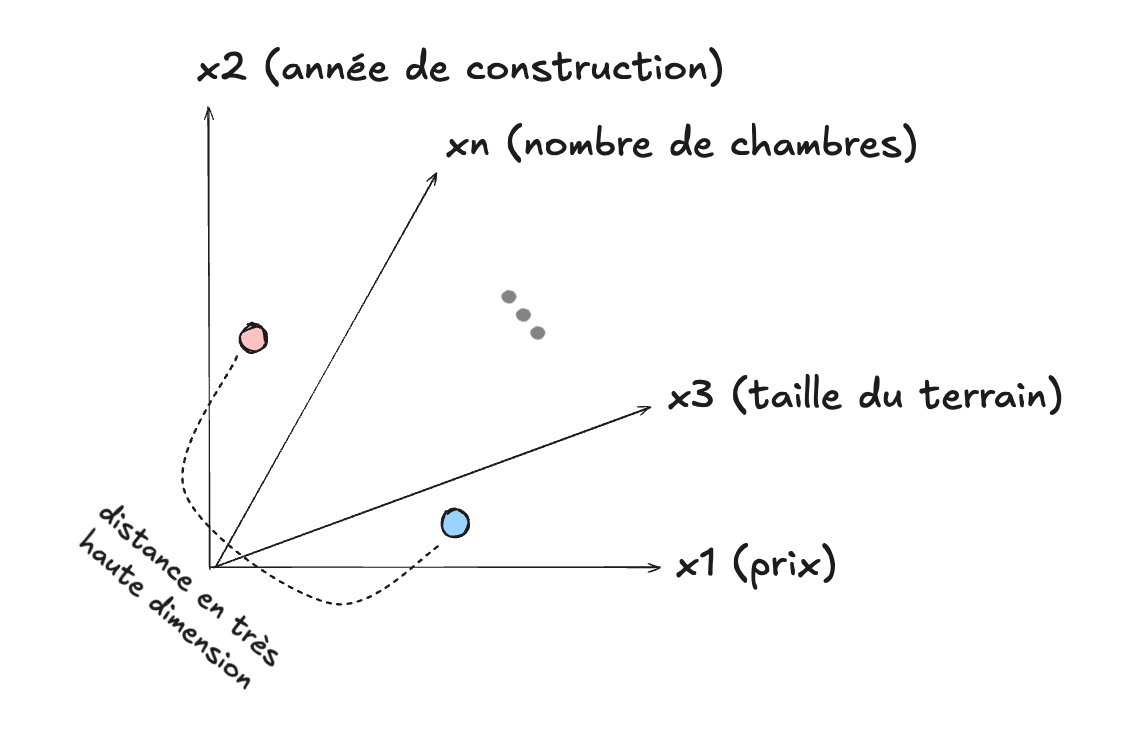
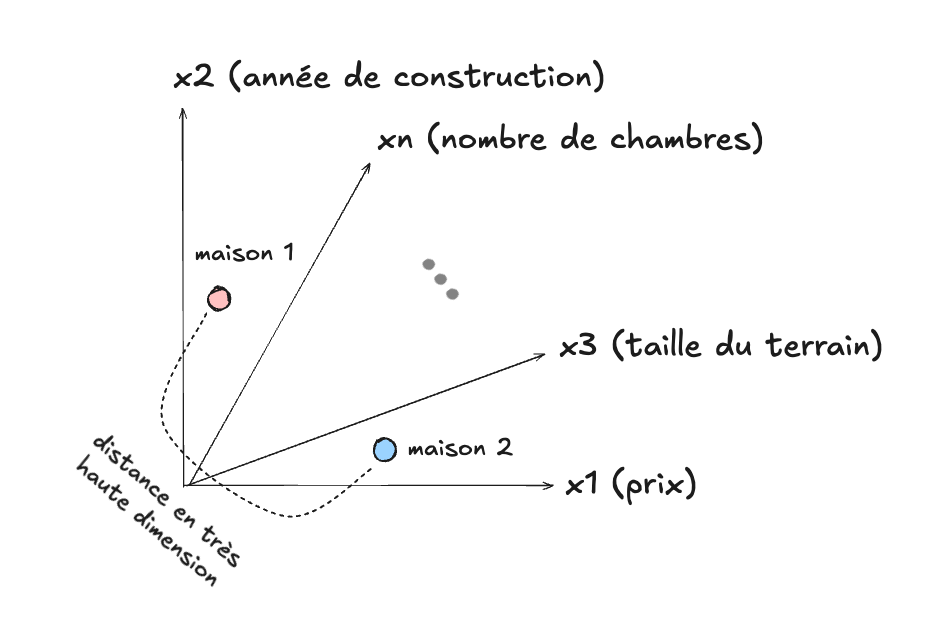
Edits similarity

diff --git a/content/docs/module2/similarité.md b/content/docs/module2/similarité.md
@@ -8,11 +8,11 @@ weight: 35
 Nous avons vu avec l'algorithme des [plus proches voisins]({{< relref
 "docs/module2/algo-le-plus-simple/" >}}) qu'une notion essentielle est de
 pouvoir mesurer la distance entre deux objets, afin de déterminer à quel point
-ils sont similaires. Mais que veut-on dire exactement par cela? Pour de simples
-points en deux dimensions, nous avons une conception intuitive raisonnable : il
-s'agit de la [distance
+ils sont similaires, qu'ils se ressemblent. Mais que veut-on dire exactement par
+cela? Pour de simples points en deux dimensions, nous avons une conception
+intuitive raisonnable : il s'agit de la [distance
 euclidienne](https://fr.wikipedia.org/wiki/Distance_euclidienne) entre les deux
-points.
+points, qui se calcule à l'aide d'une formule mathématique simple.
 
 ![](/images/module2/distance_2d.png)
 
@@ -24,16 +24,18 @@ chaque pixel d'une image correspond à une dimension :
 ![](/images/module2/distance_high_dim.png)
 
 Dans ce sens particulier, une image correspond donc à un vecteur en très haute
-dimension. En fait pour la plupart des données de type numérique (comme par
-exemple les rangées d'un tableau Excel) il est possible d'utiliser la même
-représentation, comme nous l'avons vu déjà :
+dimension, et exactement la même formule mathématique pour calculer la distance
+peut être utilisée. En fait pour la plupart des données de type numérique (comme
+par exemple les rangées d'un tableau Excel qui correspondent à des maisons en
+vente) il est possible d'utiliser la même représentation, comme nous l'avons vu
+déjà :
 
 ![](/images/module2/distance_high_dim2.png)
 
 ## Distance entre les mots ou les concepts
 
-Mais supposons maintenant que nous voulions mesurer la distance entre deux mots,
-ou deux concepts, que pourrions-nous faire?
+Mais supposons maintenant que nous voulions mesurer la similarité
+(distance) entre deux mots, ou deux concepts, que pourrions-nous faire?
 
 ![](/images/module2/distance_mots.png)
 
@@ -42,6 +44,10 @@ l'alphabet, où la présence d'une lettre dans un mot serait représentée par l
 valeur 1 dans la dimension correspondante, ou 0 sinon.
 
 ![](/images/module2/distance_mots2.png)
+
+Si on y pense un peu, on se rend compte tout de suite d'un problème : les mots
+"navire" et "bateau" seront très distants, alors que les mots "amande" et "amende"
+seront très proches.
 
 ## Distance de Levenshtein
 
@@ -57,7 +63,7 @@ pour mesurer la distance de Levenshtein entre les mots "navire" et "bateau" :
 Bien que cette notion particulière de distance soit très utile pour faire des
 applications qui permettent par exemple de corriger des erreurs d'orthographe
 (ou de faire en sorte que les requêtes Google soient plus flexibles), elle est
-moins utile pour l'apprentissage automatique. Comment ChatGPT peut faire en
+moins utile pour l'intelligence artificielle. Comment ChatGPT peut faire en
 sorte, par exemple, de considérer que les mots "navire" et "bateau" sont
 _sémantiquement_ proches (et possiblement interchangeables), si les notions de
 distance que nous avons considérées jusqu'à maintenant ne permettent pas d'en
@@ -65,43 +71,50 @@ offrir une mesure concrète?
 
 ## Modélisation du contexte des mots
 
-Une manière de résoudre et de modéliser le sens des mots (ce qu'ils veulent
-dire)  est de considérer les mots qui ont tendance à accompagner certains mots.
-On peut ainsi construire un espace vectoriel où chaque dimension correspond à un
-mot du vocabulaire. Un mot particulier, comme "chat", par exemple, aura des
-valeurs qui correspondront aux mots qu'on a tendance à retrouver dans son
-contexte, comme par exemple : ronronner, souris, miauler, etc. On peut
-considérer que le sens du mot chat est déterminé par le champ lexical des mots
-qui ont tendance à l'accompagner.
+Une manière de résoudre ce problème est de tenter de modéliser le sens des mots
+(ce qu'ils veulent dire) en considérant le contexte lexical qui a tendance à
+accompagner certains mots. Autrement dit, quels mots ont tendance à se retrouver
+dans le voisinage d'un mot particulier. On peut ainsi construire un espace
+vectoriel où chaque dimension correspond à un mot du vocabulaire. Un mot
+particulier, comme "chat", par exemple, aura des valeurs qui correspondront aux
+mots qu'on a tendance à retrouver dans son contexte, comme par exemple :
+"ronronner", "souris", "miauler", etc. On peut considérer que le sens du mot
+"chat" est déterminé par le champ lexical des mots qui ont tendance à
+l'accompagner.
 
 ![](/images/module2/distance_mots3.png)
 
-Cette approche fonctionne et est utilisée en pratique, mais elle présente des
-problèmes pour les algorithmes d'apprentissage automatique. Premièrement
-l'espace comporte un très grand nombre de dimensions (si on considère un
-vocabulaire de 100,000 mots, par exemple), dont la plupart seront de valeur zéro
-(car la plupart des mots ne se retrouvent pas dans le contexte immédiat d'un mot
-particulier). Les algorithmes d'apprentissage ont de la difficulté à opérer dans
-un tel type d'espace (beaucoup de dimensions, dont la plupart à zéro, donc de
-_densité_ très faible).
+Cette approche fonctionne et est utilisée en pratique, mais elle présente tout
+de même des problèmes pour les algorithmes d'apprentissage automatique.
+Premièrement l'espace comporte un très grand nombre de dimensions (si on
+considère un vocabulaire de 100,000 mots, par exemple), dont la plupart seront
+de valeur zéro (car la plupart des mots ne se retrouvent pas dans le contexte
+immédiat d'un mot particulier). Les algorithmes d'apprentissage ont de la
+difficulté à opérer dans un tel type d'espace (beaucoup de dimensions, dont la
+plupart à zéro, donc de _densité_ très faible). On parle parfois du [fléau de la
+dimension](https://fr.wikipedia.org/wiki/Fl%C3%A9au_de_la_dimension) (curse of
+dimensionality) décrire ce problème.
 
 ## Les plongements lexicaux (word embeddings)
 
-Une autre solution est de représenter les mots dans un espace de dimension
-moyenne (par exemple 512), dont la densité sera beaucoup plus grande (toutes les
-dimensions seront non-zéro, donc "utilisées"). La contrepartie, ce que l'on
-perd, avec un tel espace, est la signification des dimensions. Si la dimension
-127 du précédent modèle correspondait au mot "chat", par exemple, ici, dans cet
-espace, elle ne correspond à aucun mot en particulier. On parle d'un espace
-_latent_. L'avantage d'une tel espace est qu'il constitue un substrat malléable,
-à partir duquel un algorithme d'apprentissage peut façonner sa propre
-représentation des mots et de leur sens, de manière interne. La position des
-mots, ainsi que la signification de ses dimensions, n'est pas déterminée
-d'avance, avant le début de l’entraînement. C'est plutôt le processus
-d’entraînement qui entraîne leur définition, par optimisation. L'algorithme
-apprend le sens des mots, et s'en construit une représentation, avec un
-"vocabulaire" qui lui est propre. Ce mécanisme de représentation particulier,
-qu'on nomme les _plongements lexicaux_ (word embeddings) est ce qui explique, en
-grande partie, l'extraordinaire capacité linguistique de ChatGPT.
+Une autre solution est de représenter les mots dans un espace de dimension plus
+restreinte (par exemple 512 dimensions), dont la densité sera beaucoup plus
+grande (toutes les dimensions seront non-zéro, donc "utilisées"). La
+contrepartie avec un tel espace, ce que l'on perd, est la signification claire
+des dimensions. Si la dimension 127 du précédent modèle correspondait au mot
+"chat", par exemple, ici, dans cet espace, elle ne correspond à aucun mot en
+particulier. On parle d'un espace _latent_. L'avantage d'une tel espace est
+qu'il constitue un substrat malléable, à partir duquel un algorithme
+d'apprentissage peut façonner sa propre représentation des mots et de leur sens,
+de manière interne. La position des mots dans cet espace, ainsi que la
+signification de ses dimensions, n'est pas déterminée d'avance, avant le début
+de l’entraînement. C'est plutôt le processus d’entraînement qui constitue leur
+définition, par un processus d'optimisation (la qualité de la représente
+augmente, à mesure que l’entraînement progresse). L'algorithme apprend le sens
+des mots, et s'en construit une représentation interne, qui lui est propre. Ce
+mécanisme de représentation particulier, qu'on nomme les _plongements lexicaux_
+(word embeddings) est ce qui explique, en grande partie, les extraordinaires
+capacités linguistiques de ChatGPT, le fait qu'il manipule si aisément le sens
+des mots.
 
 ![](/images/module2/distance_mots4.png)
